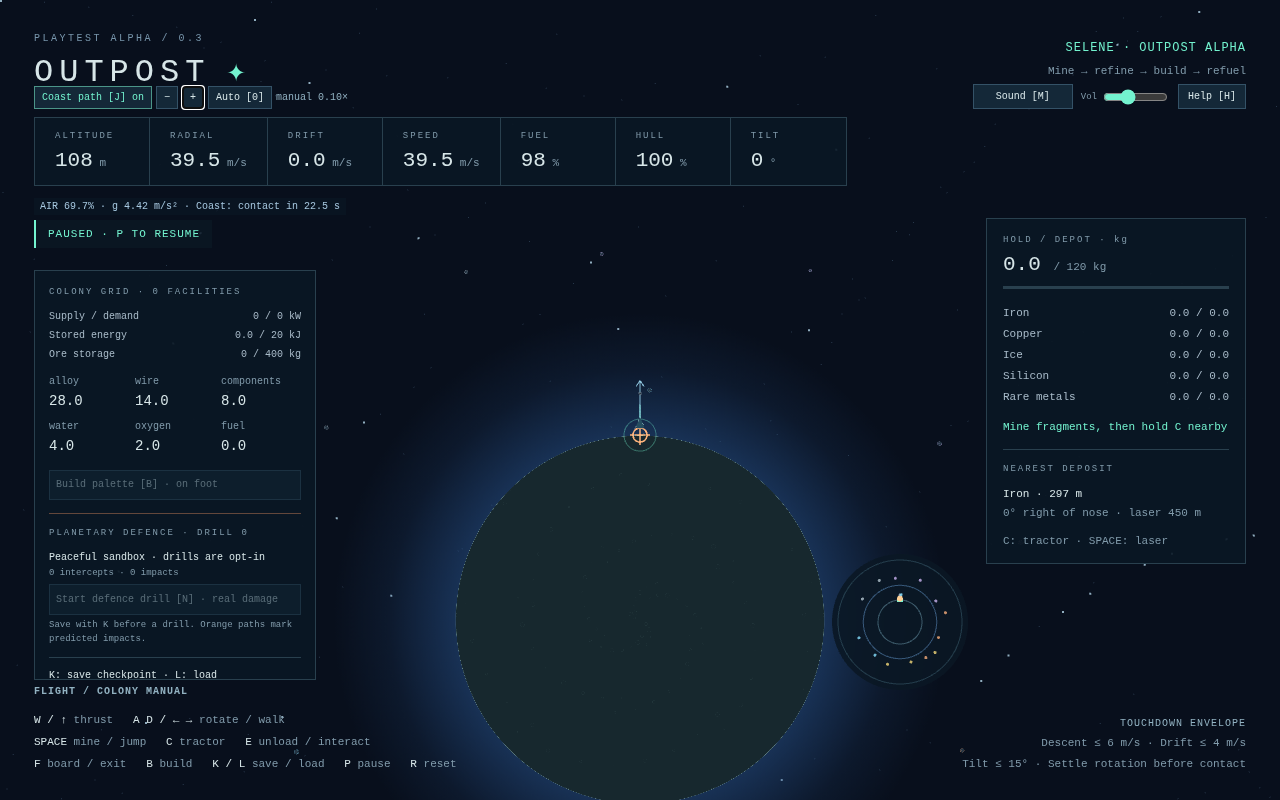
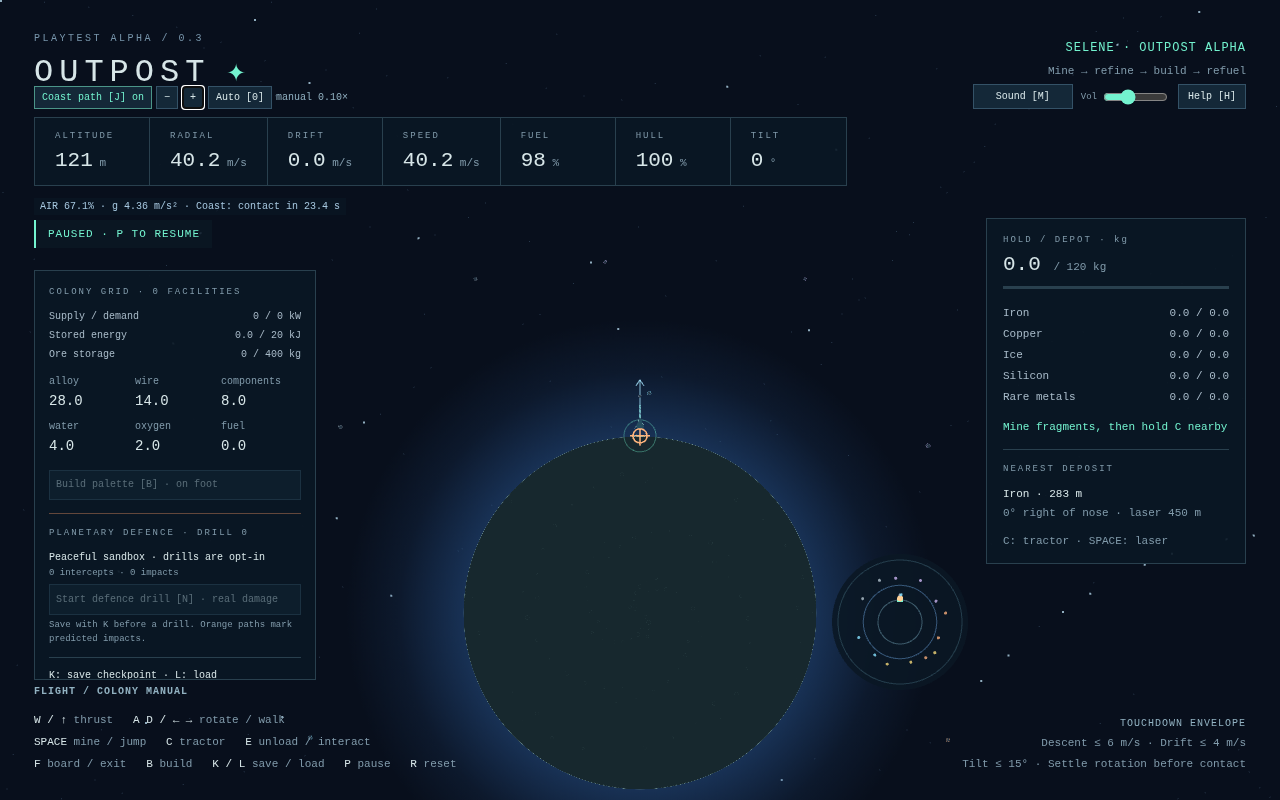
Return turret mouse controls to game input and wait for camera easing in browser checks

diff --git a/tests/browser/atmosphere.spec.ts b/tests/browser/atmosphere.spec.ts
@@ -3,7 +3,7 @@ import { legacyCheckpoint } from '../fixtures/legacyCheckpoint';
 import { WORLD } from '../../src/sim/config';
 
 test('shows a live coast path and supports keyboard, wheel and button zoom while paused', async ({ page }) => {
-  test.setTimeout(45000);
+  test.setTimeout(60000);
   const errors: string[] = []; page.on('pageerror', error => errors.push(error.message));
   await page.goto('/'); const hud = page.locator('#hud'), tools = page.locator('#flight-tools');
   await expect(page.locator('#flight-status')).toHaveAttribute('data-regime', 'atmosphere');
@@ -16,17 +16,20 @@ test('shows a live coast path and supports keyboard, wheel and button zoom while
   const initialZoom = Number(await tools.getAttribute('data-zoom'));
   await page.keyboard.press('-'); await expect(tools).toHaveAttribute('data-zoom-mode', 'manual');
   await expect.poll(async () => Number(await tools.getAttribute('data-zoom'))).toBeLessThan(initialZoom * 0.9);
-  await page.mouse.move(640, 350); await page.mouse.wheel(0, 300); await page.waitForTimeout(1200);
+  await page.mouse.move(640, 350); await page.mouse.wheel(0, 300);
+  // Wait for wheel easing to approach its requested scale before testing the opposite direction.
+  // A fixed delay can sample above the subsequent zoom-in target on software-rendered CI.
+  await expect.poll(async () => Number(await tools.getAttribute('data-zoom')), { timeout: 10000 }).toBeLessThan(initialZoom * 0.48);
   const zoomedOut = Number(await tools.getAttribute('data-zoom'));
   await page.getByRole('button', { name: 'Zoom in', exact: true }).click();
-  await expect.poll(async () => Number(await tools.getAttribute('data-zoom'))).toBeGreaterThan(zoomedOut * 1.03);
+  await expect.poll(async () => Number(await tools.getAttribute('data-zoom')), { timeout: 10000 }).toBeGreaterThan(zoomedOut * 1.03);
   await page.keyboard.press('j'); await expect(tools).toHaveAttribute('data-trajectory', 'false');
   await page.keyboard.press('j'); await expect(tools).toHaveAttribute('data-trajectory', 'true');
   await expect.poll(async () => Number(await tools.getAttribute('data-prediction-points'))).toBeGreaterThan(10);
   await page.keyboard.press('0'); await expect(tools).toHaveAttribute('data-zoom-mode', 'auto');
   await page.mouse.move(640, 350);
   for (let i = 0; i < 4; i++) await page.mouse.wheel(0, 300);
-  await expect.poll(async () => Number(await tools.getAttribute('data-zoom'))).toBeLessThan(0.12);
+  await expect.poll(async () => Number(await tools.getAttribute('data-zoom')), { timeout: 10000 }).toBeLessThan(0.12);
   await page.screenshot({ path: 'docs/screenshots/atmosphere-trajectory.png' });
   expect(await hud.getAttribute('data-altitude')).toBe(altitude); expect(await hud.getAttribute('data-fuel')).toBe(fuel);
   expect(errors).toEqual([]);

diff --git a/tests/browser/defence.spec.ts b/tests/browser/defence.spec.ts
@@ -14,13 +14,14 @@ test('builds and controls a turret, defends an opt-in drill, then saves the reso
   await page.keyboard.press('b'); await page.keyboard.down('d');
   await expect.poll(async () => Number(await hud.getAttribute('data-surface-angle')) * WORLD.radius, { timeout: 8000, intervals: [100] }).toBeGreaterThan(145);
   await page.keyboard.up('d'); await page.waitForTimeout(450);
-  await page.keyboard.press('e'); await expect(panel).toHaveAttribute('data-controlled', '2');
+  await page.getByRole('button', { name: 'Control turret [E]', exact: true }).click();
+  await expect(panel).toHaveAttribute('data-controlled', '2');
   const position = await hud.getAttribute('data-surface-angle');
   await page.keyboard.down('d');
   await expect.poll(async () => Number(await page.locator('.machine').getAttribute('data-aim'))).toBeGreaterThan(0.15);
   await page.keyboard.up('d'); await page.keyboard.down('Space');
   await expect.poll(async () => Number(await panel.getAttribute('data-shots'))).toBeGreaterThan(0);
-  await page.keyboard.up('Space'); expect(await hud.getAttribute('data-surface-angle')).toBe(position);
+  await page.keyboard.up('Space'); await expect(panel).toHaveAttribute('data-controlled', '2'); expect(await hud.getAttribute('data-surface-angle')).toBe(position);
   await expect(hud).toHaveAttribute('data-grounded', 'true');
   await page.keyboard.press('g'); await page.keyboard.press('e'); await expect(panel).toHaveAttribute('data-controlled', '');
   await expect(page.getByRole('button', { name: 'Auto defence [G]: on', exact: true })).toBeAttached();

diff --git a/src/ui/hud.ts b/src/ui/hud.ts
@@ -31,10 +31,17 @@ export class Hud {
     this.status = this.root.querySelector('.status')!;
     this.mining = this.root.querySelector('.mining')!;
     this.colony = this.root.querySelector('.colony-panel')!;
+    this.colony.addEventListener('keydown', event => {
+      if (['Enter', ' ', 'ArrowLeft', 'ArrowRight', 'ArrowUp', 'ArrowDown'].includes(event.key)) event.stopPropagation();
+    });
     this.colony.addEventListener('click', event => {
       const button = (event.target as HTMLElement).closest<HTMLButtonElement>('button');
       if (!button || button.disabled) return;
-      const action = actionFromButton(button); if (action) onColonyAction(action);
+      const action = actionFromButton(button);
+      if (action) {
+        if (event.detail > 0 || action.type === 'controlTurret') button.blur();
+        onColonyAction(action);
+      }
     });
   }
   update(world: WorldState, paused: boolean, threats: ThreatPrediction[] = []): void {
